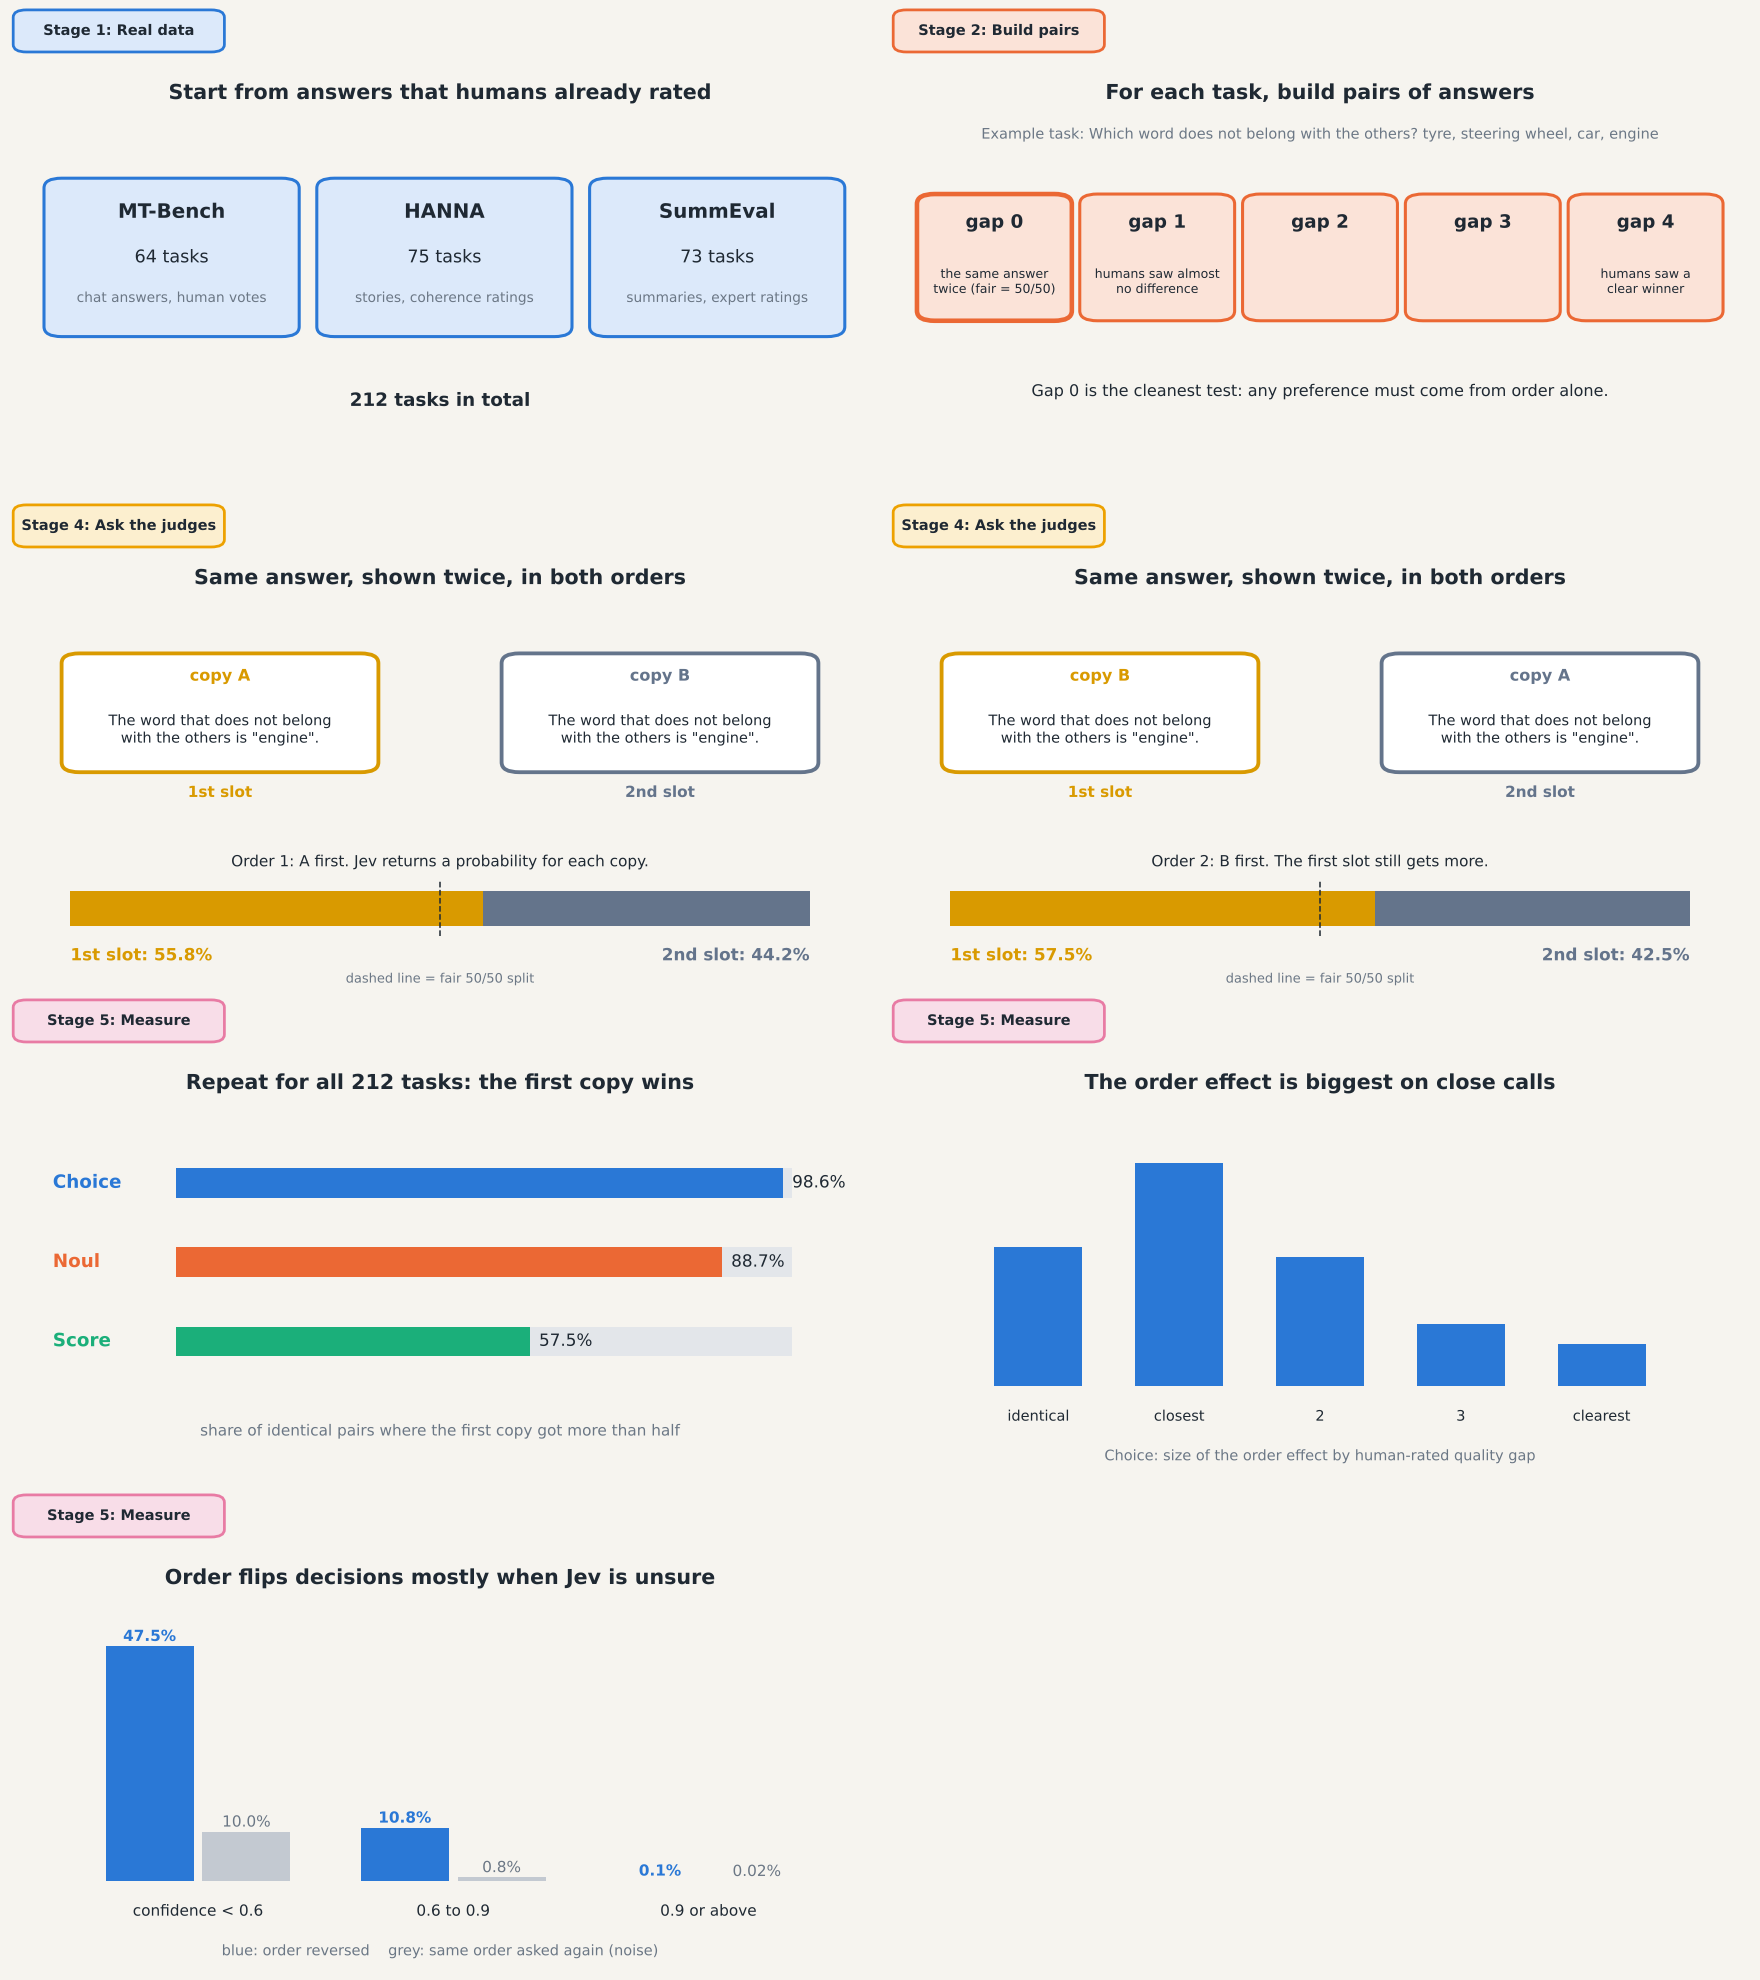
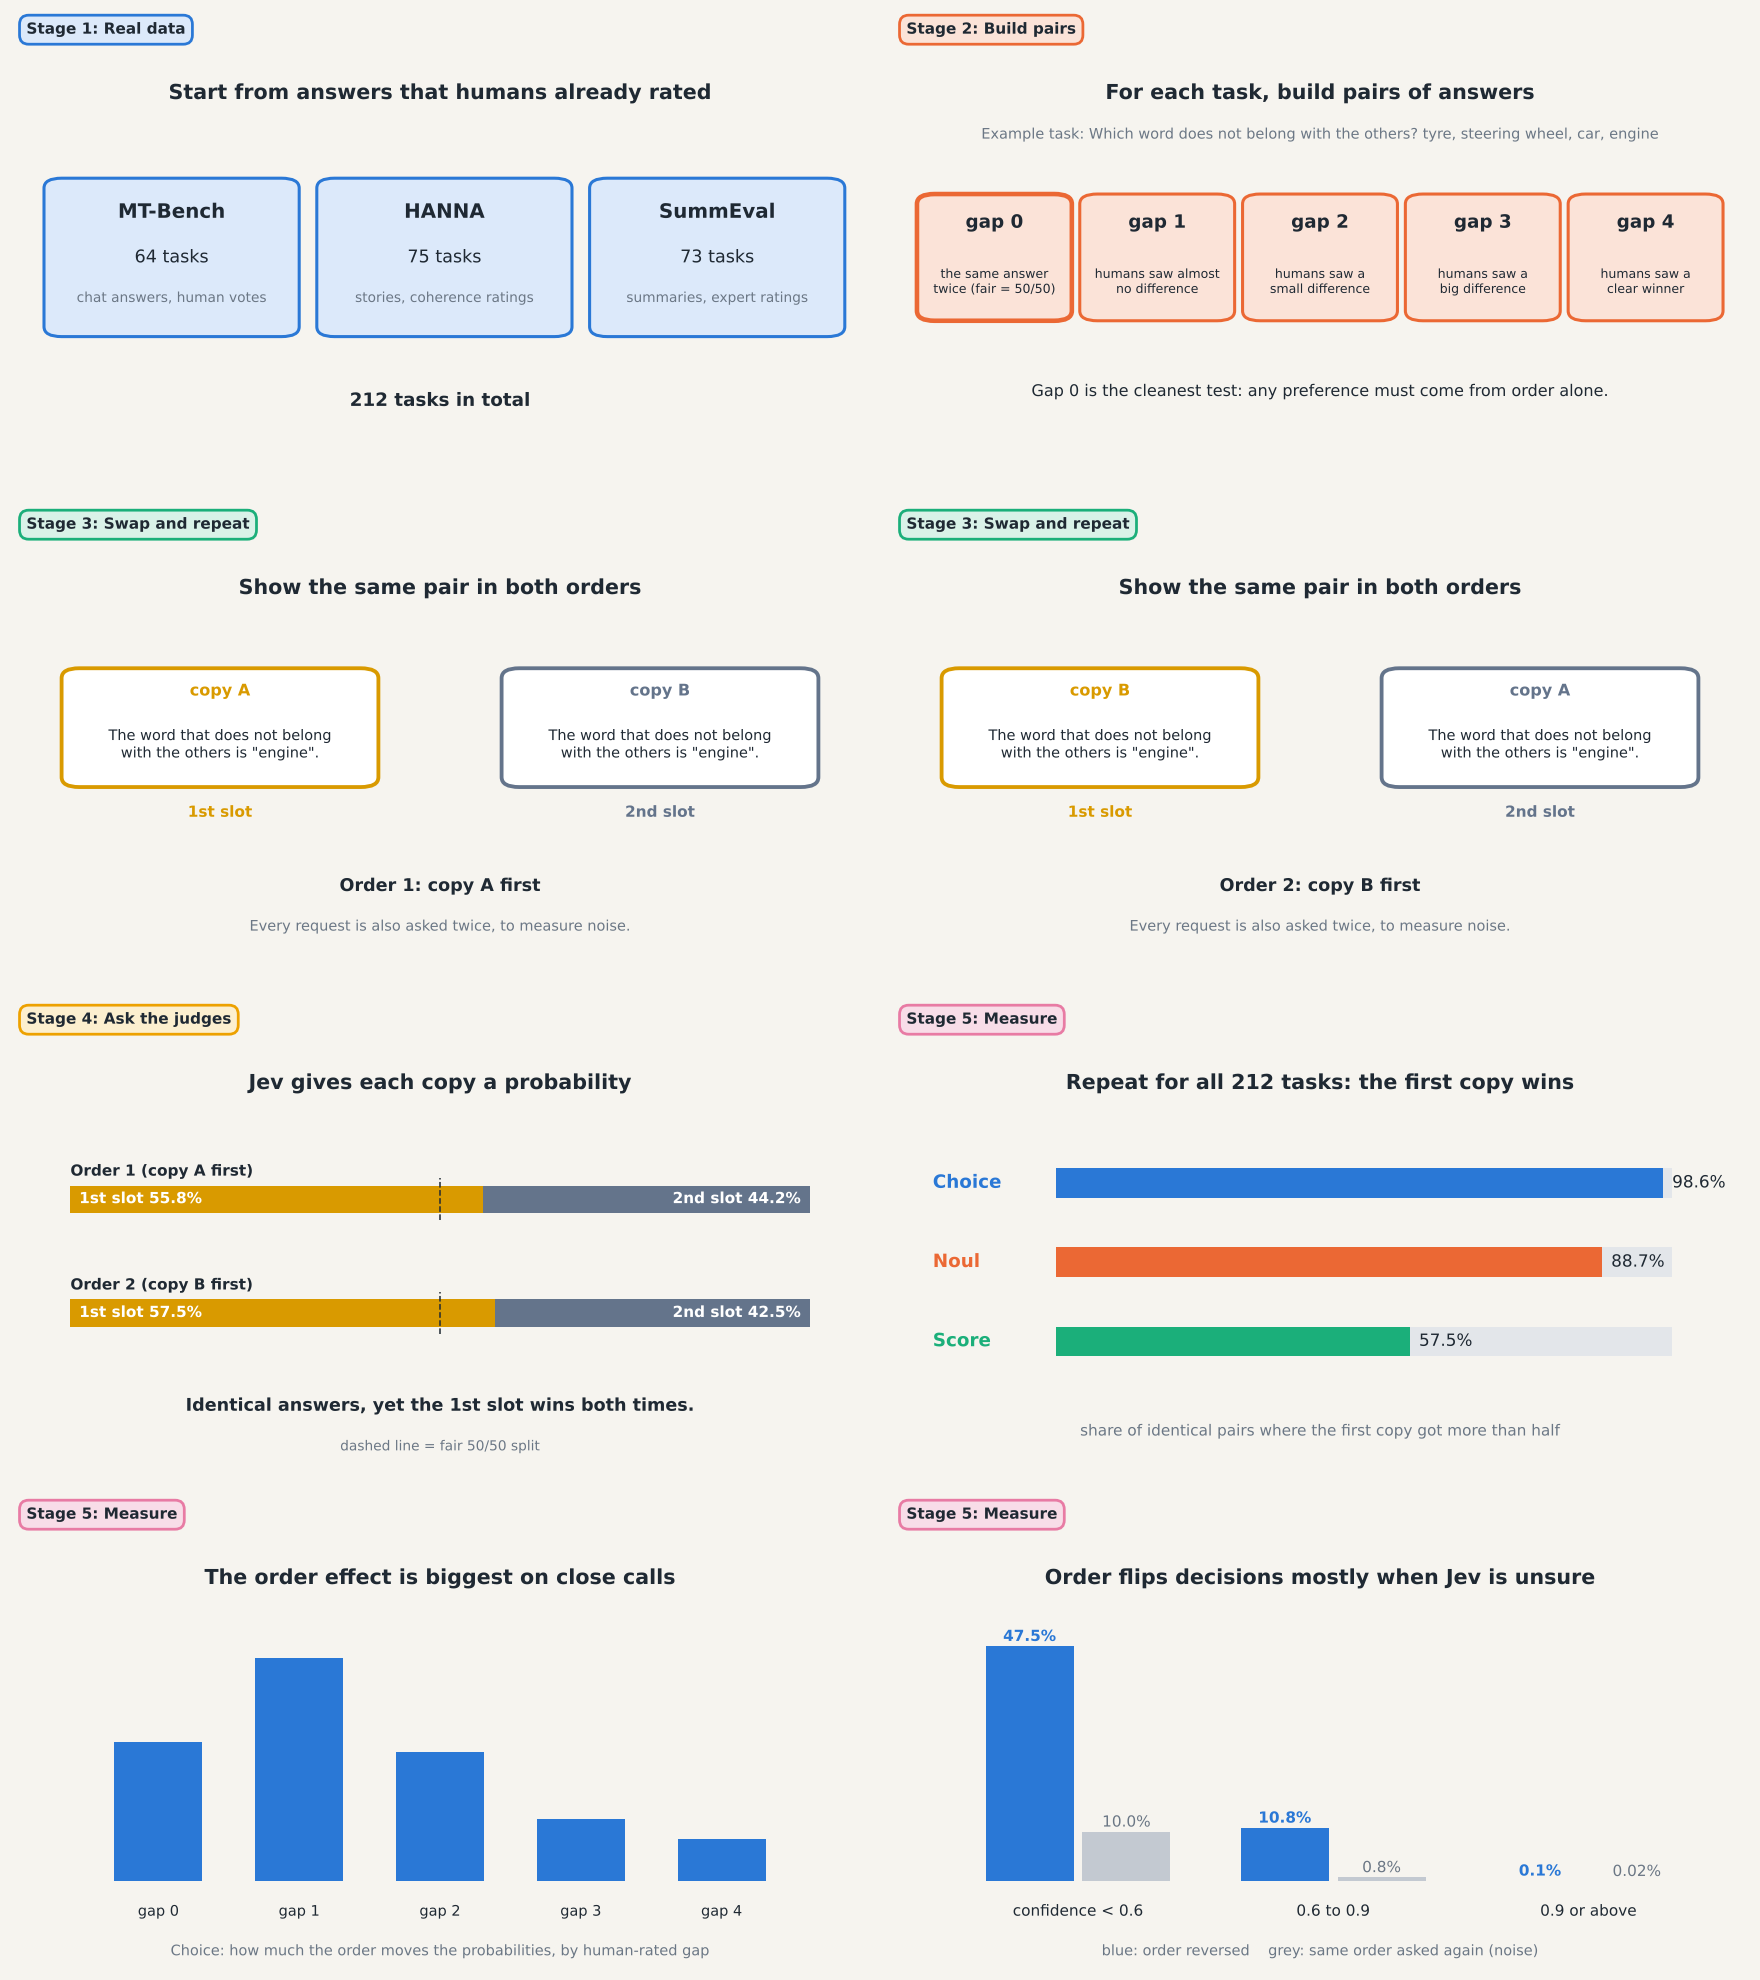
Slower five-stage walkthrough GIF in method order
Claude-Session: https://claude.ai/code/session_01BD5WKivs4zxmwvto7emk6c

diff --git a/figures/blog/make_blog_media.py b/figures/blog/make_blog_media.py
@@ -217,22 +217,38 @@ def charts():
 
 
 def animation():
+    """About 45 s at 10 fps. Each scene holds long enough to read, count-ups end with a hold."""
     fig = plt.figure(figsize=(8, 4.5), dpi=110)
     ax = fig.add_axes([0, 0, 1, 1]); fig.patch.set_facecolor(BG)
-    seq = ([('data', i) for i in range(22)] + [('pairs', i) for i in range(26)] + [('swap1', i) for i in range(16)] +
-           [('swap', i) for i in range(20)] + [('swap2', i) for i in range(16)] + [('agg', i) for i in range(34)] +
-           [('gap', i) for i in range(30)] + [('conf', i) for i in range(44)])
+    seq = ([('data', i) for i in range(55)] +       # stage 1
+           [('pairs', i) for i in range(65)] +      # stage 2
+           [('order1', i) for i in range(30)] +     # stage 3: order 1 shown
+           [('swap', i) for i in range(20)] +       # stage 3: copies swap seats
+           [('order2', i) for i in range(30)] +     # stage 3: order 2 shown
+           [('jev', i) for i in range(70)] +        # stage 4: Jev's probabilities for both orders
+           [('agg', i) for i in range(60)] +        # stage 5: all 212 tasks
+           [('gap', i) for i in range(55)] +        # stage 5: close calls
+           [('conf', i) for i in range(75)])        # stage 5: decisions flip when unsure
 
     def tag(n):
-        ax.add_patch(FancyBboxPatch((0.02, 0.9), 0.23, 0.075, boxstyle='round,pad=0.005,rounding_size=0.015',
-                                    fc=STAGE[n - 1], ec=STAGE_EDGE[n - 1], lw=1.8))
-        ax.text(0.135, 0.937, 'Stage ' + STEPS[n - 1][0].replace('  ', ': '), ha='center', va='center', fontsize=9.5,
-                weight='bold', color=INK)
+        ax.text(0.03, 0.94, 'Stage ' + STEPS[n - 1][0].replace('  ', ': '), ha='left', va='center', fontsize=10,
+                weight='bold', color=INK, bbox=dict(boxstyle='round,pad=0.45,rounding_size=0.6', fc=STAGE[n - 1],
+                                                    ec=STAGE_EDGE[n - 1], lw=1.8))
 
     def answer_card(x, y, title, col, text, w=0.34, h=0.22):
         ax.add_patch(FancyBboxPatch((x, y), w, h, boxstyle='round,pad=0.01,rounding_size=0.02', fc=CARD, ec=col, lw=2.5))
         ax.text(x + w / 2, y + h - 0.045, title, ha='center', fontsize=10.5, weight='bold', color=col)
         ax.text(x + w / 2, y + h / 2 - 0.035, text, ha='center', va='center', fontsize=9.5, color=INK)
+
+    def prob_bar(y, p, label):
+        ax.text(0.08, y + 0.075, label, fontsize=10, color=INK, weight='bold')
+        ax.add_patch(Rectangle((0.08, y), 0.84 * p, 0.055, fc=FIRST))
+        ax.add_patch(Rectangle((0.08 + 0.84 * p, y), 0.84 * (1 - p), 0.055, fc=SECOND))
+        ax.plot([0.5, 0.5], [y - 0.015, y + 0.07], color=INK, ls='--', lw=1)
+        ax.text(0.09, y + 0.0275, f'1st slot {100 * p:.1f}%', color='white', fontsize=10, weight='bold', va='center')
+        ax.text(0.91, y + 0.0275, f'2nd slot {100 * (1 - p):.1f}%', color='white', fontsize=10, weight='bold', va='center', ha='right')
+
+    text = 'The word that does not belong\nwith the others is "engine".'
 
     def draw(k):
         ax.clear(); ax.set_xlim(0, 1); ax.set_ylim(0, 1); ax.axis('off')
@@ -242,13 +258,13 @@ def animation():
             ax.text(0.5, 0.8, 'Start from answers that humans already rated', ha='center', fontsize=13.5, weight='bold', color=INK)
             for j, (name, n, what) in enumerate((('MT-Bench', 64, 'chat answers, human votes'), ('HANNA', 75, 'stories, coherence ratings'),
                                                  ('SummEval', 73, 'summaries, expert ratings'))):
-                if i >= j * 5:
+                if i >= j * 8:
                     x = 0.06 + j * 0.31
                     ax.add_patch(FancyBboxPatch((x, 0.33), 0.27, 0.3, boxstyle='round,pad=0.01,rounding_size=0.02', fc=STAGE[0], ec=STAGE_EDGE[0], lw=2))
                     ax.text(x + 0.135, 0.56, name, ha='center', fontsize=13, weight='bold', color=INK)
                     ax.text(x + 0.135, 0.47, f'{n} tasks', ha='center', fontsize=11.5, color=INK)
                     ax.text(x + 0.135, 0.39, what, ha='center', fontsize=9, color=MUTED)
-            if i > 14:
+            if i >= 24:
                 ax.text(0.5, 0.18, '212 tasks in total', ha='center', fontsize=12, color=INK, weight='bold')
         elif phase == 'pairs':
             tag(2)
@@ -256,41 +272,43 @@ def animation():
             ax.text(0.5, 0.72, 'Example task: Which word does not belong with the others? tyre, steering wheel, car, engine',
                     ha='center', fontsize=9.5, color=MUTED)
             labels = [('gap 0', 'the same answer\ntwice (fair = 50/50)'), ('gap 1', 'humans saw almost\nno difference'),
-                      ('gap 2', ''), ('gap 3', ''), ('gap 4', 'humans saw a\nclear winner')]
+                      ('gap 2', 'humans saw a\nsmall difference'), ('gap 3', 'humans saw a\nbig difference'),
+                      ('gap 4', 'humans saw a\nclear winner')]
             for j, (g, d) in enumerate(labels):
-                if i >= j * 4:
+                if i >= j * 6:
                     x = 0.05 + j * 0.185
                     ax.add_patch(FancyBboxPatch((x, 0.36), 0.16, 0.24, boxstyle='round,pad=0.008,rounding_size=0.02',
                                                 fc=STAGE[1], ec=STAGE_EDGE[1], lw=3 if j == 0 else 2))
                     ax.text(x + 0.08, 0.54, g, ha='center', fontsize=12, weight='bold', color=INK)
                     ax.text(x + 0.08, 0.43, d, ha='center', va='center', fontsize=8.2, color=INK)
-            ax.text(0.5, 0.2, 'Gap 0 is the cleanest test: any preference must come from order alone.', ha='center', fontsize=10.5, color=INK)
-        elif phase in ('swap1', 'swap', 'swap2'):
-            ax.text(0.5, 0.82, 'Same answer, shown twice, in both orders', ha='center', fontsize=13.5, weight='bold', color=INK)
-            tag(3 if phase == 'swap' else 4)
-            t = 0 if phase == 'swap1' else (1 if phase == 'swap2' else (1 - np.cos(np.pi * i / 19)) / 2)
+            if i >= 32:
+                ax.text(0.5, 0.2, 'Gap 0 is the cleanest test: any preference must come from order alone.', ha='center', fontsize=10.5, color=INK)
+        elif phase in ('order1', 'swap', 'order2'):
+            tag(3)
+            ax.text(0.5, 0.8, 'Show the same pair in both orders', ha='center', fontsize=13.5, weight='bold', color=INK)
+            t = 0 if phase == 'order1' else (1 if phase == 'order2' else (1 - np.cos(np.pi * i / 19)) / 2)
             xa = 0.08 + t * 0.5; xb = 0.58 - t * 0.5
-            ya = 0.45 + 0.1 * np.sin(np.pi * t); yb = 0.45 - 0.1 * np.sin(np.pi * t)
-            text = 'The word that does not belong\nwith the others is "engine".'
+            ya = 0.42 + 0.1 * np.sin(np.pi * t); yb = 0.42 - 0.1 * np.sin(np.pi * t)
             for x, y, name in ((xa, ya, 'copy A'), (xb, yb, 'copy B')):
                 answer_card(x, y, name, FIRST if x < 0.33 else SECOND, text)
-            ax.text(0.25, 0.39, '1st slot', ha='center', fontsize=10, color=FIRST, weight='bold')
-            ax.text(0.75, 0.39, '2nd slot', ha='center', fontsize=10, color=SECOND, weight='bold')
-            if phase != 'swap':
-                p = IDENT['order1'] if phase == 'swap1' else IDENT['order2']
-                msg = ('Order 1: A first. Jev returns a probability for each copy.' if phase == 'swap1'
-                       else 'Order 2: B first. The first slot still gets more.')
-                ax.text(0.5, 0.25, msg, ha='center', fontsize=10, color=INK)
-                ax.add_patch(Rectangle((0.08, 0.13), 0.84 * p, 0.07, fc=FIRST))
-                ax.add_patch(Rectangle((0.08 + 0.84 * p, 0.13), 0.84 * (1 - p), 0.07, fc=SECOND))
-                ax.plot([0.5, 0.5], [0.11, 0.22], color=INK, ls='--', lw=1)
-                ax.text(0.08, 0.06, f'1st slot: {100 * p:.1f}%', color=FIRST, fontsize=11, weight='bold')
-                ax.text(0.92, 0.06, f'2nd slot: {100 * (1 - p):.1f}%', color=SECOND, fontsize=11, weight='bold', ha='right')
-                ax.text(0.5, 0.015, 'dashed line = fair 50/50 split', ha='center', fontsize=8.5, color=MUTED)
+            ax.text(0.25, 0.35, '1st slot', ha='center', fontsize=10, color=FIRST, weight='bold')
+            ax.text(0.75, 0.35, '2nd slot', ha='center', fontsize=10, color=SECOND, weight='bold')
+            msg = {'order1': 'Order 1: copy A first', 'swap': 'Swap the seats...', 'order2': 'Order 2: copy B first'}[phase]
+            ax.text(0.5, 0.2, msg, ha='center', fontsize=11.5, color=INK, weight='bold')
+            ax.text(0.5, 0.12, 'Every request is also asked twice, to measure noise.', ha='center', fontsize=9.5, color=MUTED)
+        elif phase == 'jev':
+            tag(4)
+            ax.text(0.5, 0.8, 'Jev gives each copy a probability', ha='center', fontsize=13.5, weight='bold', color=INK)
+            prob_bar(0.55, IDENT['order1'], 'Order 1 (copy A first)')
+            if i >= 20:
+                prob_bar(0.32, IDENT['order2'], 'Order 2 (copy B first)')
+            if i >= 35:
+                ax.text(0.5, 0.15, 'Identical answers, yet the 1st slot wins both times.', ha='center', fontsize=11.5, color=INK, weight='bold')
+                ax.text(0.5, 0.07, 'dashed line = fair 50/50 split', ha='center', fontsize=9, color=MUTED)
         elif phase == 'agg':
             tag(5)
             ax.text(0.5, 0.8, 'Repeat for all 212 tasks: the first copy wins', ha='center', fontsize=13.5, weight='bold', color=INK)
-            frac = min(1, (i + 1) / 20)
+            frac = min(1, (i + 1) / 25)
             for j, (name, v, col) in enumerate((('Choice', 98.6, CHOICE), ('Noul', 88.7, NOUL), ('Score', 57.5, SCORE))):
                 y = 0.58 - j * 0.16
                 ax.text(0.06, y + 0.03, name, fontsize=12, weight='bold', color=col, va='center')
@@ -303,16 +321,16 @@ def animation():
             ax.text(0.5, 0.8, 'The order effect is biggest on close calls', ha='center', fontsize=13.5, weight='bold', color=INK)
             D = json.load(open(PAPER_DATA))
             vals = [g['estimate'] for g in sorted([g for g in D['gap_by_bin'] if g['kind'] == 'choice'], key=lambda g: g['gap_bin'])]
-            frac = min(1, (i + 1) / 18)
+            frac = min(1, (i + 1) / 22)
             for j, v in enumerate(vals):
                 x = 0.13 + j * 0.16; hgt = 0.45 * v / max(vals) * frac
                 ax.add_patch(Rectangle((x, 0.2), 0.1, hgt, fc=CHOICE))
-                ax.text(x + 0.05, 0.13, ['identical', 'closest', '2', '3', 'clearest'][j], ha='center', fontsize=9.5, color=INK)
-            ax.text(0.5, 0.05, 'Choice: size of the order effect by human-rated quality gap', ha='center', fontsize=9.5, color=MUTED)
+                ax.text(x + 0.05, 0.13, ['gap 0', 'gap 1', 'gap 2', 'gap 3', 'gap 4'][j], ha='center', fontsize=9.5, color=INK)
+            ax.text(0.5, 0.05, 'Choice: how much the order moves the probabilities, by human-rated gap', ha='center', fontsize=9.5, color=MUTED)
         else:
             tag(5)
             ax.text(0.5, 0.8, 'Order flips decisions mostly when Jev is unsure', ha='center', fontsize=13.5, weight='bold', color=INK)
-            frac = min(1, (i + 1) / 20)
+            frac = min(1, (i + 1) / 25)
             for j, (name, cross, same) in enumerate((('confidence < 0.6', 47.5, 10.0), ('0.6 to 0.9', 10.8, 0.8), ('0.9 or above', 0.1, 0.02))):
                 x = 0.12 + j * 0.29
                 hc, hs = 0.5 * cross / 50 * frac, 0.5 * same / 50 * frac
@@ -325,9 +343,12 @@ def animation():
 
     anim = FuncAnimation(fig, draw, frames=len(seq), interval=100)
     anim.save(OUT + 'audit_walkthrough.gif', writer=PillowWriter(fps=10))
-    keys = [21, 47, 63, 95, 129, 159, len(seq) - 1]
+    ends, acc = [], 0
+    for name in ('data', 'pairs', 'order1', 'order2', 'jev', 'agg', 'gap', 'conf'):
+        idx = max(n for n, (p, _) in enumerate(seq) if p == name)
+        ends.append(idx)
     frames = []
-    for kk in keys:
+    for kk in ends:
         draw(kk); fig.canvas.draw()
         frames.append(Image.frombuffer('RGBA', fig.canvas.get_width_height(), fig.canvas.buffer_rgba()).convert('RGB'))
     w, h = frames[0].size
